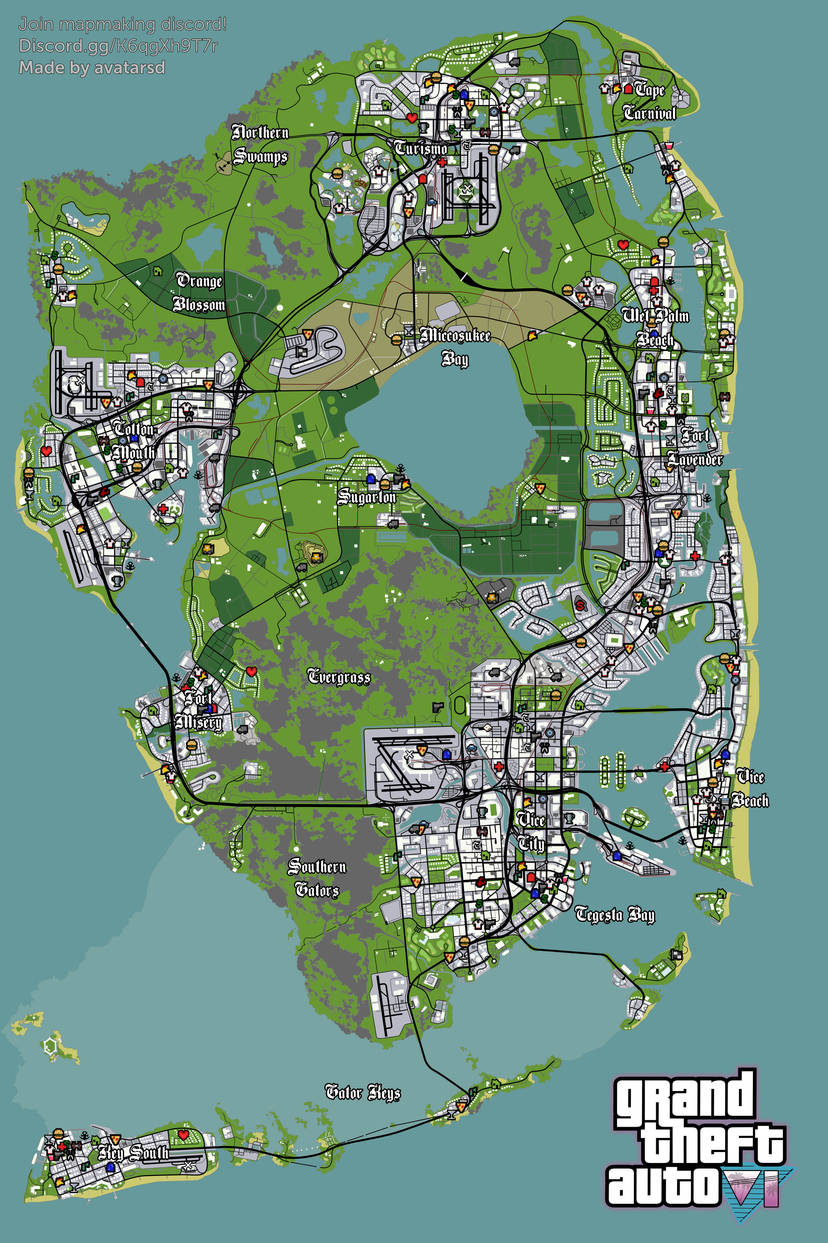
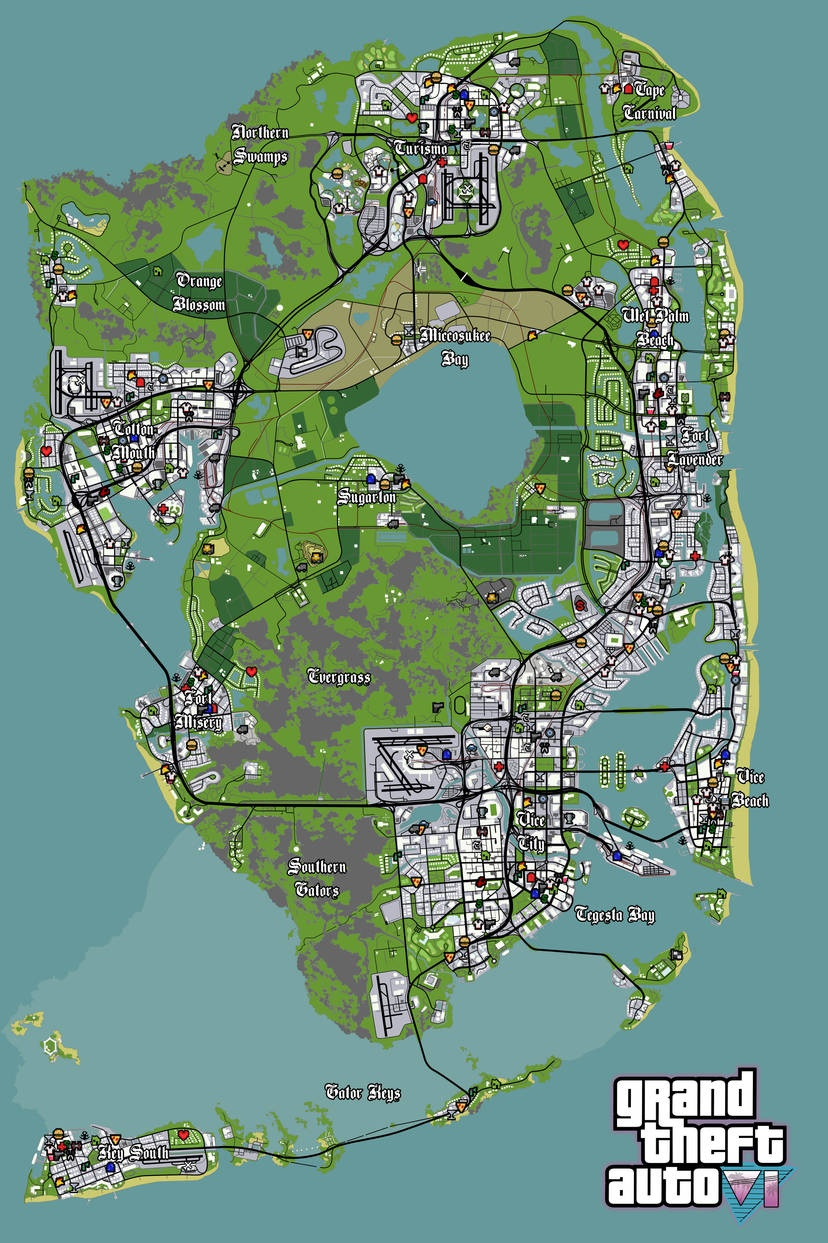
Remove top-left watermark text from map image and remove cash/wanted stars from top header bar

diff --git a/index.html b/index.html
@@ -248,15 +248,6 @@
           <span class="font-display font-black text-sm sm:text-lg tracking-wider text-white">VICE<span class="vice-text-gradient">ROUTE</span></span>
           <span id="proBadge" class="text-[9px] sm:text-[10px] font-extrabold uppercase px-1.5 py-0.5 rounded bg-cyan-500/20 text-cyan-300 border border-cyan-500/50">EXPLORER GUIDE</span>
         </div>
-        <!-- Classic GTA HUD Cash & Wanted Stars -->
-        <div class="flex items-center gap-2 text-[11px] leading-none mt-0.5">
-          <span id="gtaCashCounter" class="font-gta-cash text-emerald-400 text-sm sm:text-base font-bold">$00050000</span>
-          <div onclick="triggerPoliceSiren()" id="wantedStarsHud" class="cursor-pointer flex items-center text-[11px] tracking-tighter" title="Click to Test Wanted Siren SFX!">
-            <span class="wanted-star-active">★</span>
-            <span class="wanted-star-active">★</span>
-            <span class="text-slate-600">★★★★</span>
-          </div>
-        </div>
       </div>
     </div>
 
